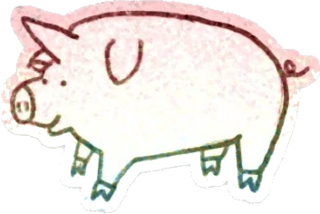
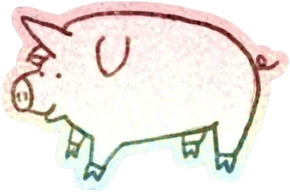
頂欄吉祥物換為 Roseline 的上方豬（含版權戳記）

diff --git a/sw.js b/sw.js
@@ -1,6 +1,6 @@
 // sw.js v4 ── service worker（守門員）。第一次開啟時把檔案存進手機，之後離線也能用。
 // 每次改程式要把 VERSION 改一個新字串，手機才會換新版。
-const VERSION = 'v6.0-quick-2026-09-14';
+const VERSION = 'v6.1-hero-2026-09-14';
 const FILES = [
   './', './index.html', './css/style.css',
   './js/app.js', './js/storage.js', './js/foods.js', './js/firebase-config.js',
